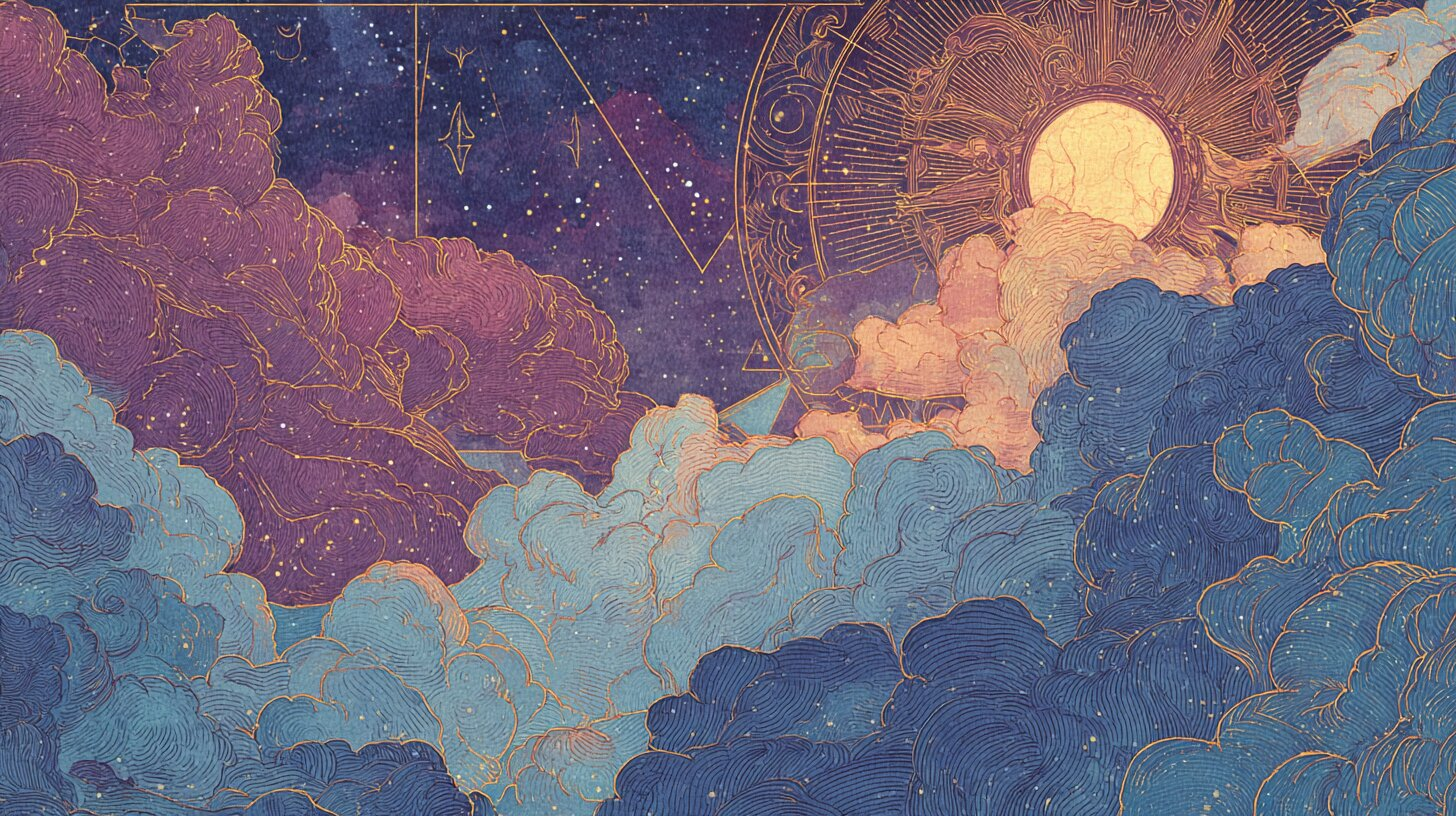
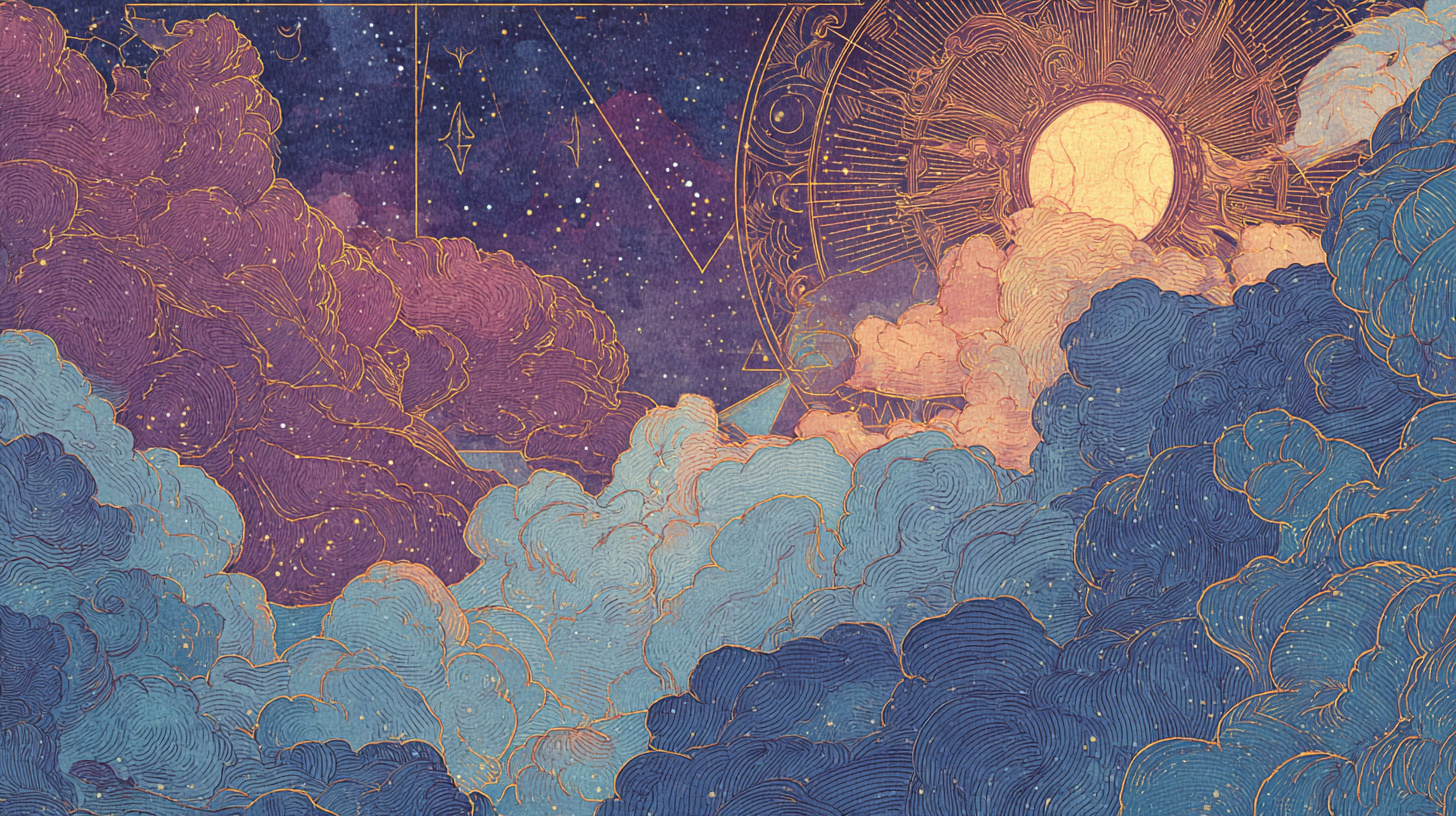
fix: reduce overlay opacity and sharpen background image
- Hero overlay: 35-45% (was 55-70%)
- Framework overlay: 40-50% (was 65-72%)
- JPG quality bumped to 95 (was 85) for sharper clouds

diff --git a/index.html b/index.html
@@ -75,7 +75,7 @@
       position: absolute;
       inset: 0;
       background:
-        linear-gradient(180deg, rgba(26, 24, 22, 0.55) 0%, rgba(26, 24, 22, 0.7) 50%, rgba(26, 24, 22, 0.85) 100%);
+        linear-gradient(180deg, rgba(26, 24, 22, 0.35) 0%, rgba(26, 24, 22, 0.45) 50%, rgba(26, 24, 22, 0.7) 100%);
       pointer-events: none;
     }
 
@@ -286,7 +286,7 @@
       position: absolute;
       inset: 0;
       background:
-        linear-gradient(180deg, rgba(26, 24, 22, 0.72) 0%, rgba(26, 24, 22, 0.65) 50%, rgba(26, 24, 22, 0.72) 100%);
+        linear-gradient(180deg, rgba(26, 24, 22, 0.5) 0%, rgba(26, 24, 22, 0.4) 50%, rgba(26, 24, 22, 0.5) 100%);
       pointer-events: none;
     }
 
